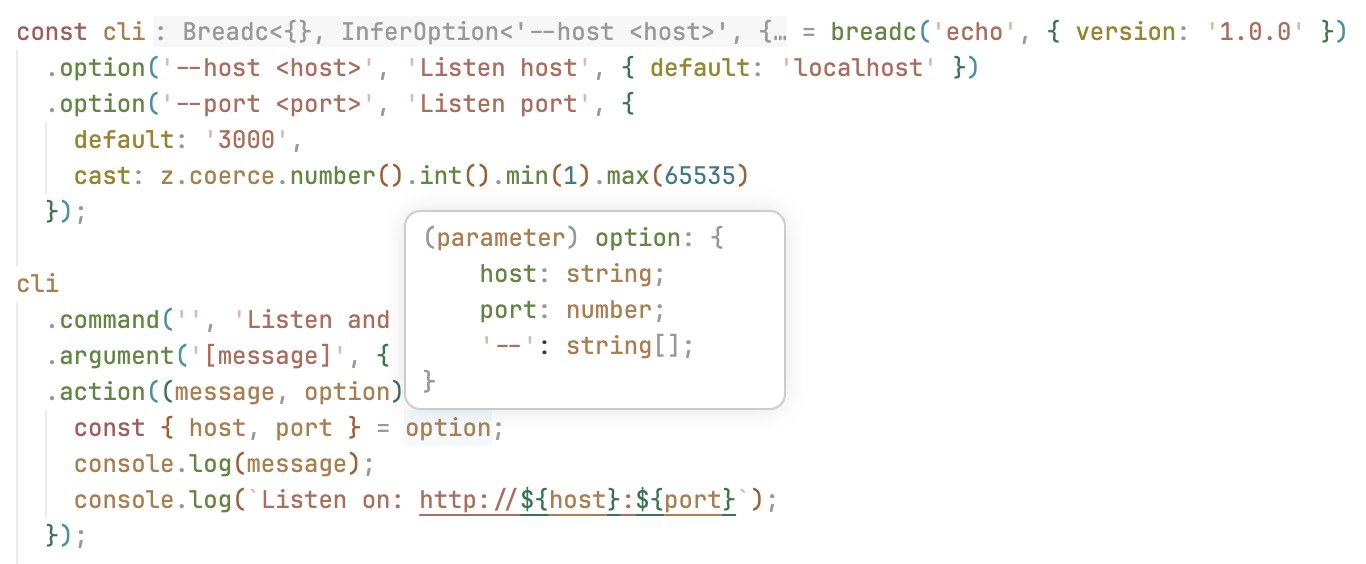
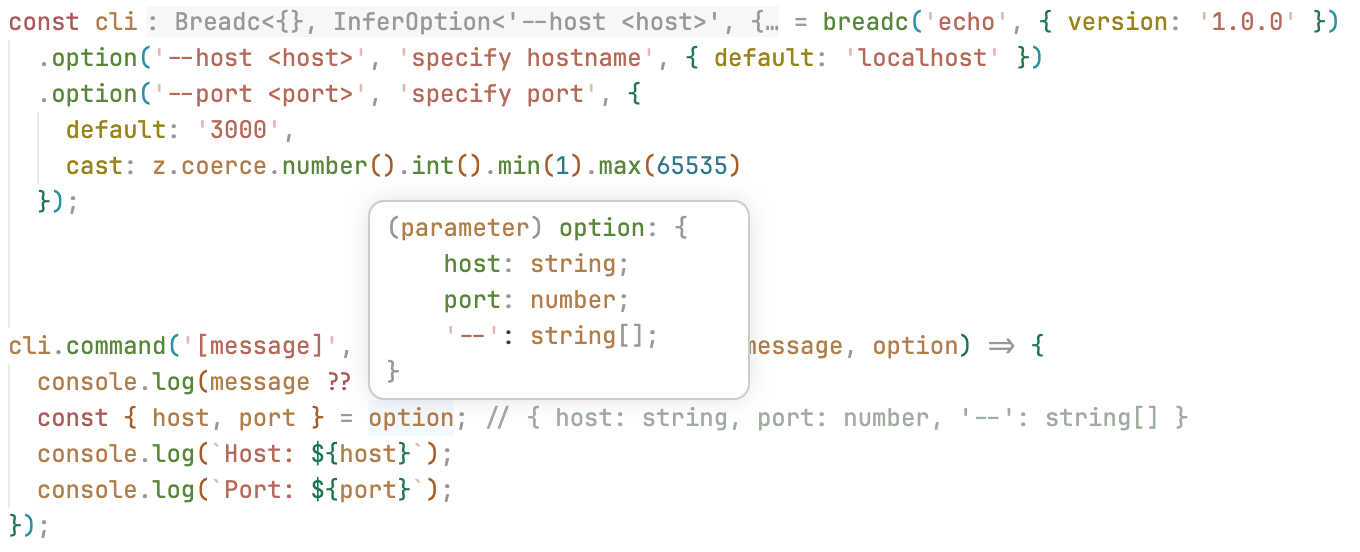
chore: update picture

diff --git a/examples/echo.ts b/examples/echo.ts
@@ -2,19 +2,19 @@ import { z } from 'zod';
 import { breadc } from '../packages/core/src';
 
 const cli = breadc('echo', { version: '1.0.0' })
-  .option('--host <host>', 'Listen host', { default: 'localhost' })
-  .option('--port <port>', 'Listen port', {
+  .option('--host <host>', 'specify hostname', { default: 'localhost' })
+  .option('--port <port>', 'specify port', {
     default: '3000',
     cast: z.coerce.number().int().min(1).max(65535)
   });
 
-cli
-  .command('', 'Listen and say something!')
-  .argument('[message]', { default: 'Breadc' })
-  .action((message, option) => {
-    const { host, port } = option;
-    console.log(message);
-    console.log(`Listen on: http://${host}:${port}`);
-  });
+
+
+cli.command('[message]', 'Say something!').action((message, option) => {
+  console.log(message ?? 'You can say anything!');
+  const { host, port } = option; // { host: string, port: number, '--': string[] }
+  console.log(`Host: ${host}`);
+  console.log(`Port: ${port}`);
+});
 
 cli.run(process.argv.slice(2)).catch((err) => console.error(err));
